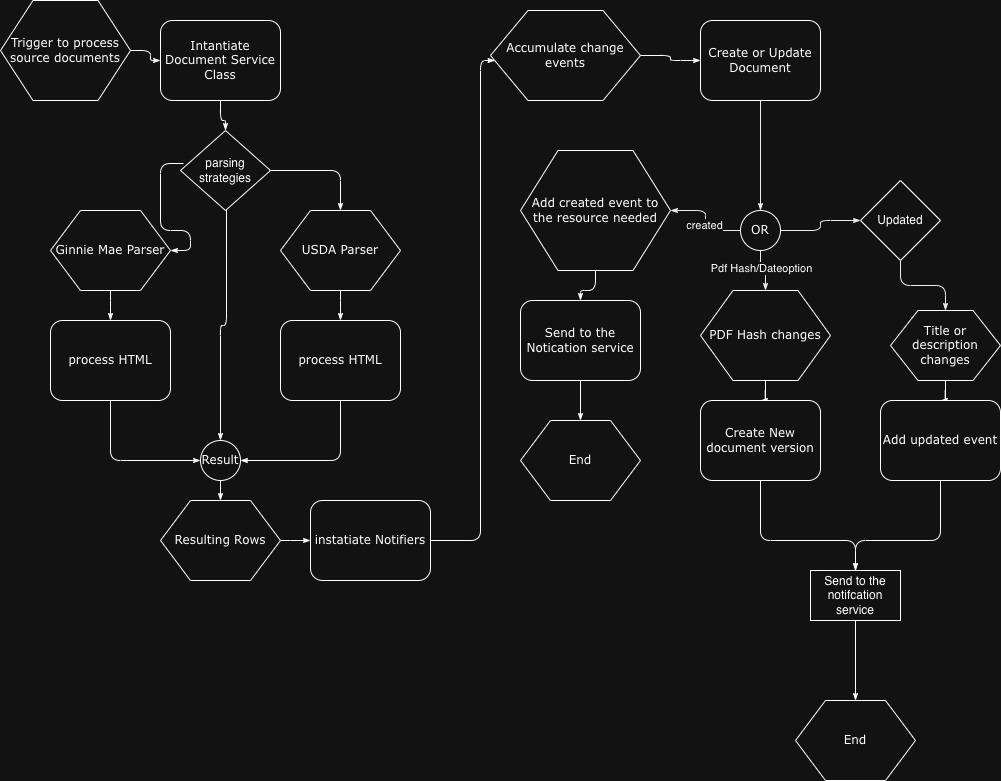
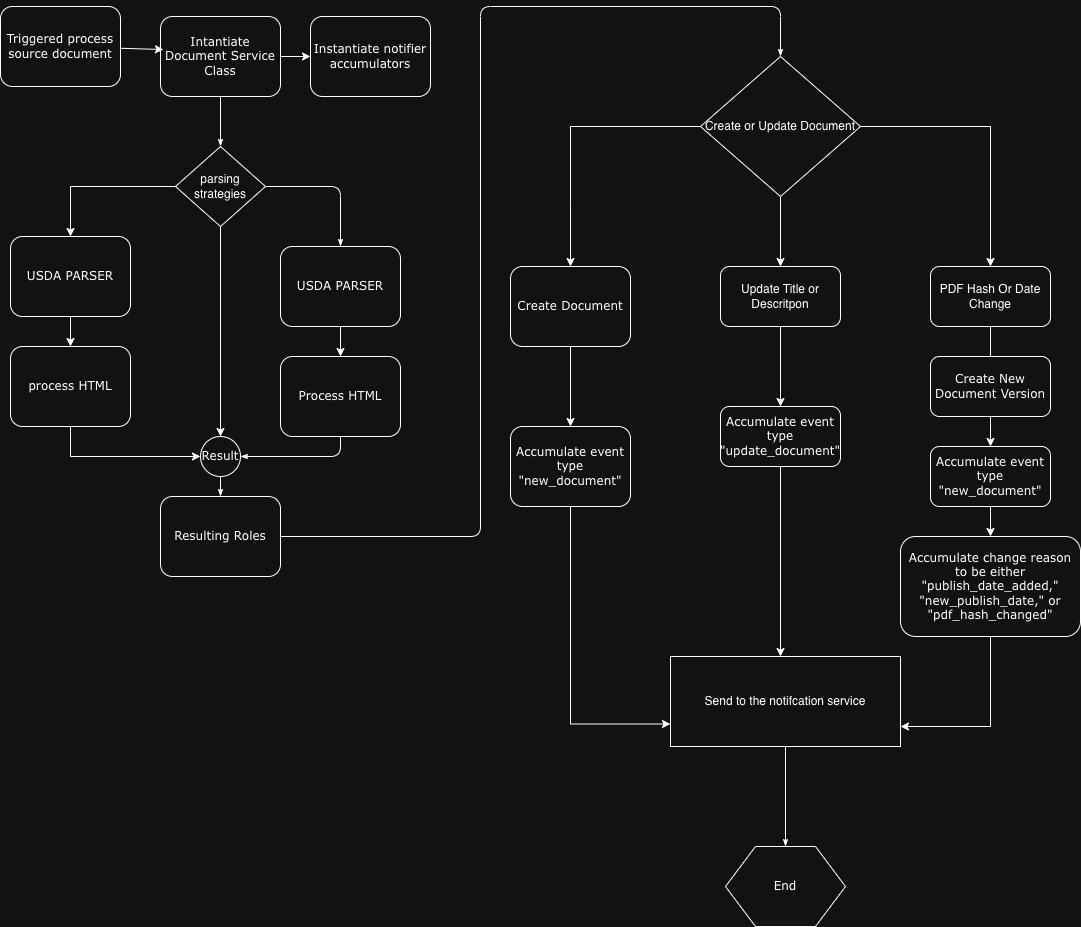
fix diagrams and update presentation

diff --git a/documents/parsers.py b/documents/parsers.py
@@ -134,7 +134,58 @@ class BaseParser(ABC):
             return False
         
         return True
-
+    def extract_from_pdf_links(self) -> List[ParsedDocumentRow]:
+        """Fallback: Extract rows by finding all PDF links directly (heuristic approach)."""
+        rows = []
+        
+        # Find all PDF links (heuristic: first <a> tag with .pdf)
+        pdf_links = self.soup.find_all('a', href=re.compile(r'\.pdf', re.I))
+        
+        for link in pdf_links:
+            pdf_link = link.get('href', '')
+            pdf_link = self.normalize_pdf_link(pdf_link)
+            if not pdf_link:
+                continue
+            
+            # Extract title from link text
+            title = link.get_text(strip=True)
+            if not title:
+                # Try parent element
+                parent = link.find_parent(['td', 'th', 'div', 'li', 'p'])
+                if parent:
+                    title = parent.get_text(strip=True)
+            
+            title = self.normalize_title(title)
+            if not title:
+                continue
+            
+            # Extract description from nearby elements
+            description = None
+            parent = link.find_parent(['td', 'th', 'div', 'li', 'p'])
+            if parent:
+                full_text = parent.get_text(separator=' ', strip=True)
+                if full_text and full_text != title:
+                    description = self.normalize_description(full_text)
+            
+            # Extract date from nearby text (optional)
+            published_date = None
+            if parent:
+                date_match = re.search(r'\d{1,2}[/-]\d{1,2}[/-]\d{2,4}', parent.get_text())
+                if date_match:
+                    published_date = self.parse_date(date_match.group())
+            
+            row = ParsedDocumentRow(
+                title=title,
+                pdf_link=pdf_link,
+                description=description,
+                published_date=published_date
+            )
+            
+            # Validate: must have title + valid PDF link
+            if self.is_valid_row(row):
+                rows.append(row)
+        
+        return rows
 
 class GinnieMaeParser(BaseParser):
     """Parser for Ginnie Mae MBS Guide Library page."""
@@ -152,7 +203,7 @@ class GinnieMaeParser(BaseParser):
 
         # Strategy 2: Fallback - find all PDF links directly (heuristic approach)
         if not rows:
-            rows.extend(self._extract_from_pdf_links(soup))
+            rows.extend(self.extract_from_pdf_links())
         
         return rows
     
@@ -323,59 +374,6 @@ class GinnieMaeParser(BaseParser):
         # Missing published date is allowed - will fall back to PDF hash comparison
         return None
 
-    def _extract_from_pdf_links(self, soup: BeautifulSoup) -> List[ParsedDocumentRow]:
-        """Fallback: Extract rows by finding all PDF links directly (heuristic approach)."""
-        rows = []
-        
-        # Find all PDF links (heuristic: first <a> tag with .pdf)
-        pdf_links = soup.find_all('a', href=re.compile(r'\.pdf', re.I))
-        
-        for link in pdf_links:
-            pdf_link = link.get('href', '')
-            pdf_link = self.normalize_pdf_link(pdf_link)
-            if not pdf_link:
-                continue
-            
-            # Extract title from link text
-            title = link.get_text(strip=True)
-            if not title:
-                # Try parent element
-                parent = link.find_parent(['td', 'th', 'div', 'li', 'p'])
-                if parent:
-                    title = parent.get_text(strip=True)
-            
-            title = self.normalize_title(title)
-            if not title:
-                continue
-            
-            # Extract description from nearby elements
-            description = None
-            parent = link.find_parent(['td', 'th', 'div', 'li', 'p'])
-            if parent:
-                full_text = parent.get_text(separator=' ', strip=True)
-                if full_text and full_text != title:
-                    description = self.normalize_description(full_text)
-            
-            # Extract date from nearby text (optional)
-            published_date = None
-            if parent:
-                date_match = re.search(r'\d{1,2}[/-]\d{1,2}[/-]\d{2,4}', parent.get_text())
-                if date_match:
-                    published_date = self.parse_date(date_match.group())
-            
-            row = ParsedDocumentRow(
-                title=title,
-                pdf_link=pdf_link,
-                description=description,
-                published_date=published_date
-            )
-            
-            # Validate: must have title + valid PDF link
-            if self.is_valid_row(row):
-                rows.append(row)
-        
-        return rows
-
 
 class USDAParser(BaseParser):
     """Parser for USDA Handbook pages."""
@@ -384,10 +382,15 @@ class USDAParser(BaseParser):
         soup = self.parse_html(html)
         rows = []
         div = self._find_table_div_pdfs(soup)
+        
+        # Strategy 1: CSS selector with class/id containing keywords
 
         if div:
             rows.extend(self._extract_from_div(div))
 
+        # Strategy 2: Fallback - find all PDF links directly (heuristic approach)
+        if not rows:
+            rows.extend(self.extract_from_pdf_links())
         
         return rows
 
@@ -462,48 +465,8 @@ class CustomParser(BaseParser):
     """Generic parser for unknown sources - uses heuristics."""
     
     def extract_rows(self, html: str) -> List[ParsedDocumentRow]:
-        """Extract rows using generic heuristics."""
-        soup = self.parse_html(html)
         rows = []
-        
-        # Find all PDF links
-        links = soup.find_all('a', href=re.compile(r'\.pdf', re.I))
-        
-        for link in links:
-            pdf_link = link.get('href', '')
-            pdf_link = self.normalize_pdf_link(pdf_link)
-            if not pdf_link:
-                continue
-            
-            title = link.get_text(strip=True)
-            title = self.normalize_title(title)
-            
-            # Try to find description nearby
-            description = None
-            parent = link.find_parent(['div', 'li', 'td', 'p'])
-            if parent:
-                # Get all text, remove the link text
-                full_text = parent.get_text(separator=' ', strip=True)
-                if full_text and full_text != title:
-                    description = self.normalize_description(full_text)
-            
-            # Try to find date nearby
-            published_date = None
-            if parent:
-                # Look for date patterns in parent or siblings
-                date_text = re.search(r'\d{1,2}[/-]\d{1,2}[/-]\d{2,4}', parent.get_text())
-                if date_text:
-                    published_date = self.parse_date(date_text.group())
-            
-            row = ParsedDocumentRow(
-                title=title,
-                pdf_link=pdf_link,
-                description=description,
-                published_date=published_date
-            )
-            
-            if self.is_valid_row(row):
-                rows.append(row)
+        rows.extend(self.extract_from_pdf_links())
         
         return rows
 

diff --git a/documents/services.py b/documents/services.py
@@ -46,7 +46,7 @@ class DocumentSourceService:
         try:
             response = requests.get(
                 self.source.index_url,
-                timeout=100,
+                timeout=30,
                 headers={
                     'User-Agent': 'Mozilla/5.0 (compatible; DocumentTracker/1.0)'
                 }
